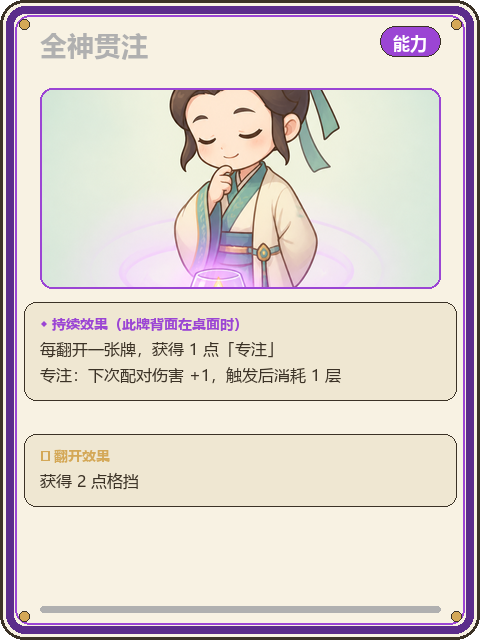
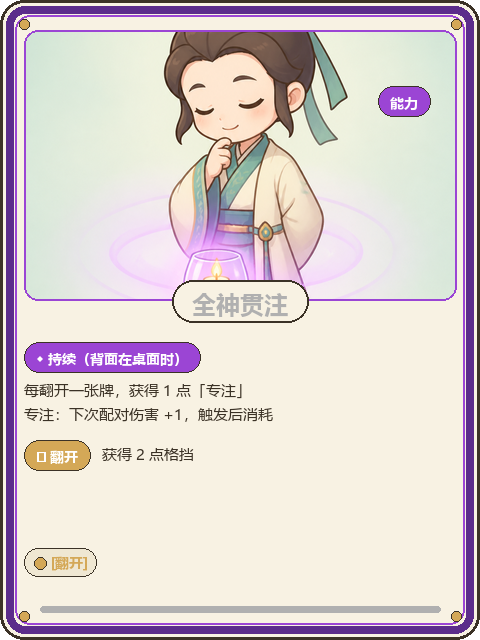
art: 卡框v2改版（插画主导432×320/铭牌压插画/配对大数字徽章/词条仅胶囊）+新增通用卡背（深可可书封+宝珠摊书徽记），四色卡背作废，供拍板

Changed region(s): [[0.0312, 0.0312, 0.9688, 0.6562], [0.0312, 0.6875, 0.4062, 0.7812], [0.0625, 0.8438, 0.1875, 0.9062]]

diff --git a/.agents/skills/mh-art/scripts/card_frame_mockup.py b/.agents/skills/mh-art/scripts/card_frame_mockup.py
@@ -1,21 +1,17 @@
 #!/usr/bin/env python3
-"""卡框设计稿合成器——《记忆勇者》整卡 480×640 视觉方案 mockup。
+"""卡框设计稿合成器 v2——《记忆勇者》整卡 480×640 视觉方案 mockup。
 
-用途：把"卡框（UI 层实现）+ 卡面插画（AI 资产）+ 真实文案"合成为整卡效果图，
-供设计文档 10 §2.2/§4.3 卡框方案的人工拍板。本脚本只做设计稿预览，
-正式 9-slice 边框资产（border_card_*.png）在方案定稿后另行切制。
-
-设计要点（v3.2 风格基线）：
-  - 480×640，外圆角 24px，3px 深可可描边（#3B3226）——与角色细描边一致的"贴纸感"
-  - 类型色边带：主色 8px 环 + 亮色 2px 内衬线 + 四角古金圆点
-  - 卡体奶油纸 #F8F2E3（诅咒偏灰紫），文案面板 #EFE7D2
-  - 插画窗 400×240 圆角 12，亮类型色 2px 窗框，插画居中偏上裁切
-  - 卡名用稀有度色（§1.3），底部稀有度色条
-  - 能力牌双面板（§2.4：◆持续 紫 / ↻翻开 金）；诅咒牌无效果面板、占位骷髅插画
+v2 修订（用户反馈 v1"像文字游戏"）：
+  - 插画主导：插画窗 432×320（原 400×240），卡名铭牌压在插画下沿
+  - 效果图标化：配对效果 = 标签胶囊 + 类型色大数字徽章 + 单位，不再整段文字
+  - 词条只留胶囊（图标点 + 词条名），完整描述交给悬浮预览（240×320 显示时文字本就不可读）
+  - 无面板框：文字直接排在奶油卡体上，减少"表单感"
+  - 新增通用卡背（v1 无）：深可可书封底 + 奶油翻书 + 古金记忆宝珠徽记，
+    全类型共用（§2.3 的四色卡背随之作废——类型信息翻牌前不可见）
 
 用法（仓库根目录）：
     python .agents/skills/mh-art/scripts/card_frame_mockup.py
-输出：ImageReview/cards/cardframe_{attack,skill,ability,curse}.png
+输出：ImageReview/cards/cardframe_{attack,skill,ability,curse,back}.png
 """
 
 import os
@@ -28,10 +24,15 @@ RADIUS = 24
 INK = (59, 50, 38, 255)            # #3B3226 深可可
 BODY = (248, 242, 227, 255)        # #F8F2E3 亮纸卡体
 BODY_CURSE = (233, 228, 233, 255)  # 诅咒卡体（偏灰紫）
-PANEL = (239, 231, 210, 255)       # #EFE7D2 文案面板
+PANEL = (239, 231, 210, 255)       # #EFE7D2 胶囊底
 GOLD = (212, 168, 87, 255)         # #D4A857 古金
-GREEN = (91, 168, 91, 255)         # #5BA85B 匹配型词条色
+COPPER = (200, 127, 58, 255)       # #C87F3A 暖铜
+GREEN = (91, 168, 91, 255)         # #5BA85B 匹配型词条
+GREY = (136, 136, 136, 255)        # 移除词条
 WHITE = (255, 255, 255, 255)
+CREAM = (242, 235, 217, 255)       # #F2EBD9 奶油纸
+BACK_BODY = (74, 58, 42, 255)      # 卡背深可可书封
+BACK_BAND = (46, 36, 26, 255)      # 卡背边带（更深）
 
 TYPES = {
     "attack":  dict(dark=(139, 44, 44),  light=(212, 69, 69),  label="攻击"),
@@ -50,6 +51,19 @@ def font(size, bold=False):
         if os.path.isfile(path):
             return ImageFont.truetype(path, size)
     sys.exit("no CJK font found in " + FONTS_DIR)
+
+
+def wrap(d, text, fnt, max_w):
+    lines, cur = [], ""
+    for ch in text:
+        if d.textlength(cur + ch, font=fnt) <= max_w:
+            cur += ch
+        else:
+            lines.append(cur)
+            cur = ch
+    if cur:
+        lines.append(cur)
+    return lines
 
 
 def paste_art(card, art_path, box):
@@ -78,135 +92,188 @@ def paste_art(card, art_path, box):
             tx = cx - 24 + i * 16
             d.rectangle([tx, cy + 34, tx + 10, cy + 52], fill=(232, 224, 232, 255), outline=INK, width=2)
     mask = Image.new("L", (win_w, win_h), 0)
-    ImageDraw.Draw(mask).rounded_rectangle([0, 0, win_w - 1, win_h - 1], 12, fill=255)
+    ImageDraw.Draw(mask).rounded_rectangle([0, 0, win_w - 1, win_h - 1], 14, fill=255)
     card.paste(art, (x0, y0), mask)
 
 
-def draw_frame(card, t, body):
+def draw_frame(card, band_dark, band_light, body):
+    band_dark = tuple(band_dark) if len(band_dark) == 4 else tuple(band_dark) + (255,)
+    band_light = tuple(band_light) if len(band_light) == 4 else tuple(band_light) + (255,)
     d = ImageDraw.Draw(card)
     d.rounded_rectangle([0, 0, W - 1, H - 1], RADIUS, fill=body, outline=INK, width=3)
-    d.rounded_rectangle([6, 6, W - 7, H - 7], RADIUS - 5, outline=t["dark"] + (255,), width=8)
-    d.rounded_rectangle([15, 15, W - 16, H - 16], RADIUS - 9, outline=t["light"] + (255,), width=2)
+    d.rounded_rectangle([6, 6, W - 7, H - 7], RADIUS - 5, outline=band_dark, width=8)
+    d.rounded_rectangle([15, 15, W - 16, H - 16], RADIUS - 9, outline=band_light, width=2)
     for cx, cy in [(24, 24), (W - 24, 24), (24, H - 24), (W - 24, H - 24)]:
         d.ellipse([cx - 5, cy - 5, cx + 5, cy + 5], fill=GOLD, outline=INK, width=1)
 
 
-def draw_title(d, t, name, rarity_color):
-    d.text((40, 26), name, font=font(27, bold=True), fill=rarity_color)
-    fnt = font(17, bold=True)
-    tw = d.textlength(t["label"], font=fnt)
-    x0, y0, x1, y1 = 440 - tw - 26, 26, 440, 56
-    d.rounded_rectangle([x0, y0, x1, y1], 15, fill=t["light"] + (255,), outline=INK, width=1)
-    d.text((x0 + 13, y0 + 5), t["label"], font=fnt, fill=WHITE)
+def chip(d, x, y, text, bg, fg=WHITE, fnt=None, pad_x=12, h=28):
+    bg = tuple(bg) if len(bg) == 4 else tuple(bg) + (255,)
+    fnt = fnt or font(14, bold=True)
+    tw = d.textlength(text, font=fnt)
+    d.rounded_rectangle([x, y, x + tw + pad_x * 2, y + h], h // 2, fill=bg, outline=INK, width=1)
+    d.text((x + pad_x, y + (h - fnt.size) // 2 - 1), text, font=fnt, fill=fg)
+    return x + tw + pad_x * 2
 
 
-def draw_text_panel(d, box, lines, label=None, label_color=None):
-    x0, y0, x1, y1 = box
-    d.rounded_rectangle([x0, y0, x1, y1], 12, fill=PANEL, outline=INK, width=1)
-    y = y0 + 12
-    if label:
-        d.text((x0 + 16, y), label, font=font(14, bold=True), fill=label_color)
-        y += 24
-    fnt = font(16)
-    for text in lines:
-        d.text((x0 + 16, y), text, font=fnt, fill=INK)
-        y += fnt.size + 10
+def nameplate(d, name, rarity_color, y=372):
+    fnt = font(24, bold=True)
+    tw = d.textlength(name, font=fnt)
+    x0 = (W - tw) // 2 - 20
+    d.rounded_rectangle([x0, y, x0 + tw + 40, y + 42], 21, fill=BODY, outline=INK, width=2)
+    d.text(((W - tw) // 2, y + 7), name, font=fnt, fill=rarity_color)
 
 
-def draw_tags(d, tag_lines, y=478):
-    tag_fnt, kw_fnt = font(15), font(15, bold=True)
-    for keyword, kw_color, desc in tag_lines:
-        d.ellipse([40, y + 7, 48, y + 15], fill=kw_color, outline=INK, width=1)
-        x = 56
-        d.text((x, y), keyword, font=kw_fnt, fill=kw_color)
-        x += d.textlength(keyword, font=kw_fnt) + 6
-        first = True
-        for ln in wrap(d, desc, tag_fnt, 440 - x):
-            d.text((x if first else 56, y), ln, font=tag_fnt, fill=INK)
-            first = False
-            y += 24
-        y += 10
+def type_badge(d, t):
+    chip(d, 378, 86, t["label"], t["light"], h=30)
 
 
-def wrap(d, text, fnt, max_w):
-    lines, cur = [], ""
-    for ch in text:
-        if d.textlength(cur + ch, font=fnt) <= max_w:
-            cur += ch
-        else:
-            lines.append(cur)
-            cur = ch
-    if cur:
-        lines.append(cur)
-    return lines
+def number_badge(d, cx, cy, number, color):
+    r = 22
+    d.ellipse([cx - r, cy - r, cx + r, cy + r], fill=color + (255,), outline=INK, width=2)
+    fnt = font(26, bold=True)
+    tw = d.textlength(str(number), font=fnt)
+    d.text((cx - tw / 2, cy - 19), str(number), font=fnt, fill=WHITE)
 
 
-def draw_rarity_bar(d, rarity_color):
-    d.rounded_rectangle([40, 606, 440, 612], 3, fill=rarity_color)
+def tag_chips(d, tags, y):
+    x = 24
+    for keyword, color in tags:
+        fnt = font(14, bold=True)
+        tw = d.textlength(keyword, font=fnt)
+        w = tw + 34
+        if x + w > 456:
+            x, y = 24, y + 36
+        d.rounded_rectangle([x, y, x + w, y + 28], 14, fill=PANEL, outline=INK, width=1)
+        d.ellipse([x + 10, y + 9, x + 22, y + 21], fill=color, outline=INK, width=1)
+        d.text((x + 26, y + 5), keyword, font=fnt, fill=color)
+        x += w + 8
+    return y
 
 
-def make_standard(type_key, name, rarity, art_path, effect_lines, tag_lines):
+def effect_rows(d, t, y, pair, flip):
+    """配对效果（标签+数字徽章+单位）与翻开效果（标签+短句）。"""
+    label_fnt, text_fnt = font(15, bold=True), font(16)
+    if pair:
+        kind, value, unit = pair
+        x = chip(d, 24, y, "配对", t["dark"], h=32)
+        number_badge(d, x + 34, y + 16, value, t["light"])
+        d.text((x + 64, y + 6), "点" + unit, font=text_fnt, fill=INK)
+        y += 52
+    if flip:
+        x = chip(d, 24, y, "翻开", GOLD, h=32)
+        lines = wrap(d, flip, text_fnt, 456 - (x + 12))
+        for i, ln in enumerate(lines[:2]):
+            d.text((x + 12, y + 5 + i * 24), ln, font=text_fnt, fill=INK)
+        y += 32 + (len(lines[:2]) - 1) * 24 + 14
+    return y
+
+
+def make_standard(type_key, name, rarity, art_path, pair, flip, tags):
     t, rc = TYPES[type_key], RARITY[rarity]
     card = Image.new("RGBA", (W, H), (0, 0, 0, 0))
-    draw_frame(card, t, BODY_CURSE if type_key == "curse" else BODY)
+    draw_frame(card, t["dark"], t["light"], BODY_CURSE if type_key == "curse" else BODY)
     d = ImageDraw.Draw(card)
-    draw_title(d, t, name, rc)
-    paste_art(card, art_path, (40, 88, 440, 328))
-    d.rounded_rectangle([40, 88, 440, 328], 12, outline=t["light"] + (255,), width=2)
-    if effect_lines:
-        draw_text_panel(d, (24, 344, 456, 344 + len(effect_lines) * 26 + 28), effect_lines)
-    draw_tags(d, tag_lines)
-    draw_rarity_bar(d, rc)
+    paste_art(card, art_path, (24, 30, 456, 350))
+    d.rounded_rectangle([24, 30, 456, 350], 14, outline=t["light"] + (255,), width=2)
+    type_badge(d, t)
+    nameplate(d, name, rc, y=330)
+    y = effect_rows(d, t, 398, pair, flip)
+    tag_chips(d, tags, max(y, 520))
+    d.rounded_rectangle([40, 606, 440, 612], 3, fill=rc)
     return card
 
 
-def make_ability(name, rarity, art_path, sustain_lines, flip_lines):
+def make_ability(name, rarity, art_path, sustain_lines, flip, tags):
     t, rc = TYPES["ability"], RARITY[rarity]
     card = Image.new("RGBA", (W, H), (0, 0, 0, 0))
-    draw_frame(card, t, BODY)
+    draw_frame(card, t["dark"], t["light"], BODY)
     d = ImageDraw.Draw(card)
-    draw_title(d, t, name, rc)
-    paste_art(card, art_path, (40, 88, 440, 288))
-    d.rounded_rectangle([40, 88, 440, 288], 12, outline=t["light"] + (255,), width=2)
-    draw_text_panel(d, (24, 302, 456, 302 + 24 + len(sustain_lines) * 26 + 22),
-                    sustain_lines, label="◆ 持续效果（此牌背面在桌面时）", label_color=t["light"])
-    draw_text_panel(d, (24, 434, 456, 434 + 24 + len(flip_lines) * 26 + 22),
-                    flip_lines, label="↻ 翻开效果", label_color=GOLD)
-    draw_rarity_bar(d, rc)
+    paste_art(card, art_path, (24, 30, 456, 300))
+    d.rounded_rectangle([24, 30, 456, 300], 14, outline=t["light"] + (255,), width=2)
+    type_badge(d, t)
+    nameplate(d, name, rc, y=280)
+    text_fnt = font(15)
+    x = chip(d, 24, 342, "◆ 持续（背面在桌面时）", t["light"], h=30)
+    y = 380
+    for ln in sustain_lines[:2]:
+        d.text((24, y), ln, font=text_fnt, fill=INK)
+        y += 24
+    x = chip(d, 24, y + 12, "↻ 翻开", GOLD, h=30)
+    d.text((x + 12, y + 16), flip, font=text_fnt, fill=INK)
+    tag_chips(d, tags, 548)
+    d.rounded_rectangle([40, 606, 440, 612], 3, fill=rc)
+    return card
+
+
+def star(d, cx, cy, r, color):
+    d.line([(cx - r, cy), (cx + r, cy)], fill=color, width=3)
+    d.line([(cx, cy - r), (cx, cy + r)], fill=color, width=3)
+
+
+def make_back():
+    """通用卡背：深可可书封 + 奶油翻书 + 古金记忆宝珠，全类型共用。"""
+    card = Image.new("RGBA", (W, H), (0, 0, 0, 0))
+    draw_frame(card, BACK_BAND, GOLD, BACK_BODY)
+    d = ImageDraw.Draw(card)
+    # 内衬装饰环
+    d.rounded_rectangle([44, 44, 435, 595], 16, outline=GOLD, width=2)
+    # 徽记：古金宝珠 + 奶油摊开的书
+    cx = W // 2
+    orb_y, book_y = 236, 330
+    d.ellipse([cx - 34, orb_y - 34, cx + 34, orb_y + 34], fill=GOLD, outline=INK, width=3)
+    d.ellipse([cx - 12, orb_y - 22, cx + 10, orb_y], fill=(240, 214, 150, 255))  # 高光
+    d.rounded_rectangle([cx - 92, book_y, cx - 8, book_y + 78], 10, fill=CREAM, outline=INK, width=3)
+    d.rounded_rectangle([cx + 8, book_y, cx + 92, book_y + 78], 10, fill=CREAM, outline=INK, width=3)
+    d.line([(cx, book_y - 6), (cx, book_y + 84)], fill=INK, width=3)
+    # 书页线
+    for i in range(3):
+        yy = book_y + 20 + i * 16
+        d.line([(cx - 76, yy), (cx - 24, yy)], fill=(138, 122, 96, 255), width=3)
+        d.line([(cx + 24, yy), (cx + 76, yy)], fill=(138, 122, 96, 255), width=3)
+    # 星点装饰
+    star(d, cx - 96, orb_y - 40, 9, GOLD)
+    star(d, cx + 98, orb_y - 28, 7, GOLD)
+    star(d, cx + 88, orb_y + 52, 6, GOLD)
+    star(d, cx - 84, orb_y + 60, 6, GOLD)
+    # 上下小菱形
+    for yy in (110, 530):
+        d.polygon([(cx, yy - 10), (cx + 10, yy), (cx, yy + 10), (cx - 10, yy)],
+                  fill=GOLD, outline=INK)
     return card
 
 
 def main():
-    out_dir = os.path.join("ImageReview", "cards")
-    cards = os.path.join(out_dir)
+    out = os.path.join("ImageReview", "cards")
 
     make_standard(
-        "attack", "笔记", "普通", os.path.join(cards, "card_attack_biji_1.png"),
-        ["配对：造成 6 点伤害"],
-        [("[笔记]", GREEN, "匹配型——可与笔记、读书笔记互相配对")],
-    ).save(os.path.join(out_dir, "cardframe_attack.png"))
+        "attack", "笔记", "普通", os.path.join(out, "card_attack_biji_1.png"),
+        pair=("atk", 6, "伤害"), flip=None,
+        tags=[("[笔记]", GREEN)],
+    ).save(os.path.join(out, "cardframe_attack.png"))
 
     make_standard(
-        "skill", "速读", "普通", os.path.join(cards, "card_skill_sudu_1.png"),
-        ["配对：获得 4 点格挡"],
-        [("[翻开]", GOLD, "随机揭示周围 1 张背面牌")],
-    ).save(os.path.join(out_dir, "cardframe_skill.png"))
+        "skill", "速读", "普通", os.path.join(out, "card_skill_sudu_1.png"),
+        pair=("block", 4, "格挡"), flip="随机揭示周围 1 张背面牌",
+        tags=[("[翻开]", GOLD)],
+    ).save(os.path.join(out, "cardframe_skill.png"))
 
     make_ability(
-        "全神贯注", "普通", os.path.join(cards, "card_ability_quanshenguanzhu_1.png"),
-        ["每翻开一张牌，获得 1 点「专注」",
-         "专注：下次配对伤害 +1，触发后消耗 1 层"],
-        ["获得 2 点格挡"],
-    ).save(os.path.join(out_dir, "cardframe_ability.png"))
+        "全神贯注", "普通", os.path.join(out, "card_ability_quanshenguanzhu_1.png"),
+        ["每翻开一张牌，获得 1 点「专注」", "专注：下次配对伤害 +1，触发后消耗"],
+        flip="获得 2 点格挡",
+        tags=[("[翻开]", GOLD)],
+    ).save(os.path.join(out, "cardframe_ability.png"))
 
     make_standard(
         "curse", "遗忘", "普通", None,
-        [],
-        [("[翻开]", GOLD, "失去 2 点血量；移除自身"),
-         ("[移除]", (136, 136, 136, 255), "进入弃牌堆时改为从游戏移除")],
-    ).save(os.path.join(out_dir, "cardframe_curse.png"))
+        pair=None, flip="失去 2 点血量；移除自身",
+        tags=[("[翻开]", GOLD), ("[移除]", GREY)],
+    ).save(os.path.join(out, "cardframe_curse.png"))
 
-    print("Saved: cardframe_attack / skill / ability / curse ->", out_dir)
+    make_back().save(os.path.join(out, "cardframe_back.png"))
+
+    print("Saved: cardframe_attack / skill / ability / curse / back ->", out)
 
 
 if __name__ == "__main__":
